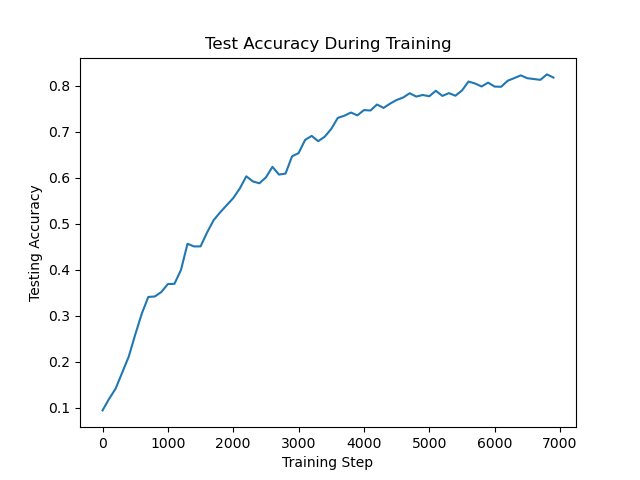
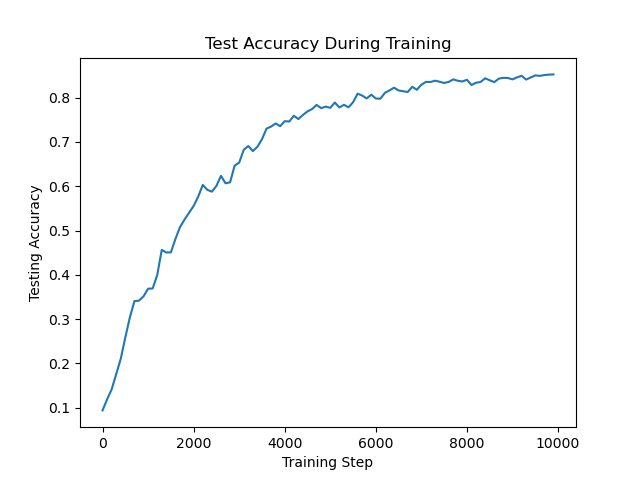
Repeated training with more training steps

diff --git a/train.py b/train.py
@@ -2,12 +2,12 @@ from Sequential import *
 from Modules import *
 import pandas as pd
 
-train_df = pd.read_csv('mnist_train.csv')
+train_df = pd.read_csv('MNIST Data/mnist_train.csv')
 x_train = train_df.iloc[:, 1:].to_numpy()
 x_train = x_train.T
 y_train = train_df.iloc[:, 0].to_numpy()
 
-test_df = pd.read_csv('mnist_train.csv')
+test_df = pd.read_csv('MNIST Data/mnist_train.csv')
 x_test = test_df.iloc[:, 1:].to_numpy()
 x_test = x_test.T
 y_test = test_df.iloc[:, 0].to_numpy()
@@ -30,4 +30,4 @@ modules = [Linear(784, 28), ReLu(),
 loss = NLL()
 model = Sequential(modules, loss, x_train, x_test, y_train, y_test)
 
-model.sgd(iterations=7000, lrate=0.001, every=100)
+model.sgd(iterations=10000, lrate=0.001, every=100)
